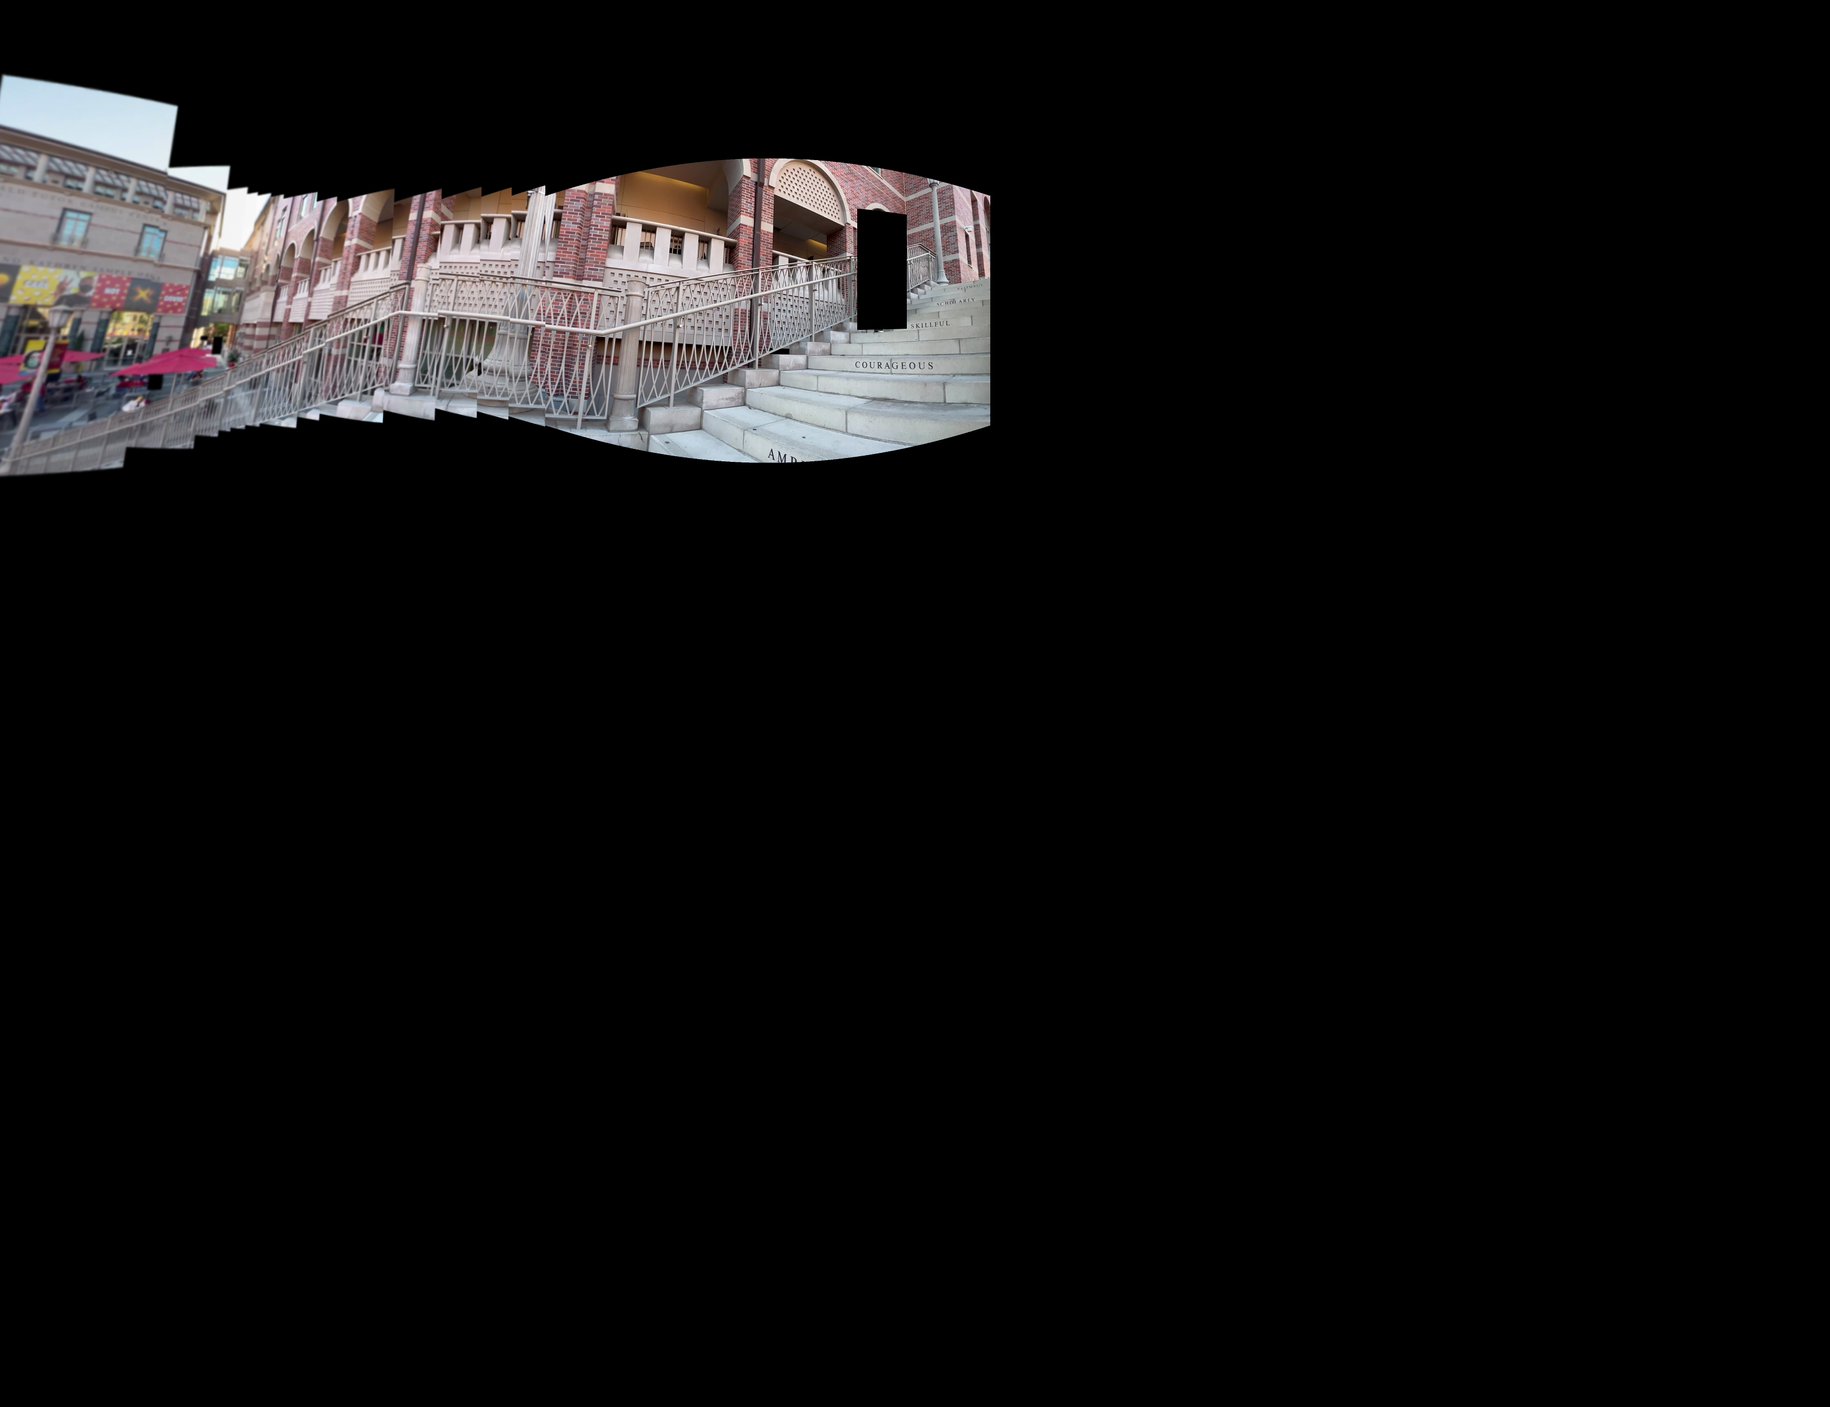
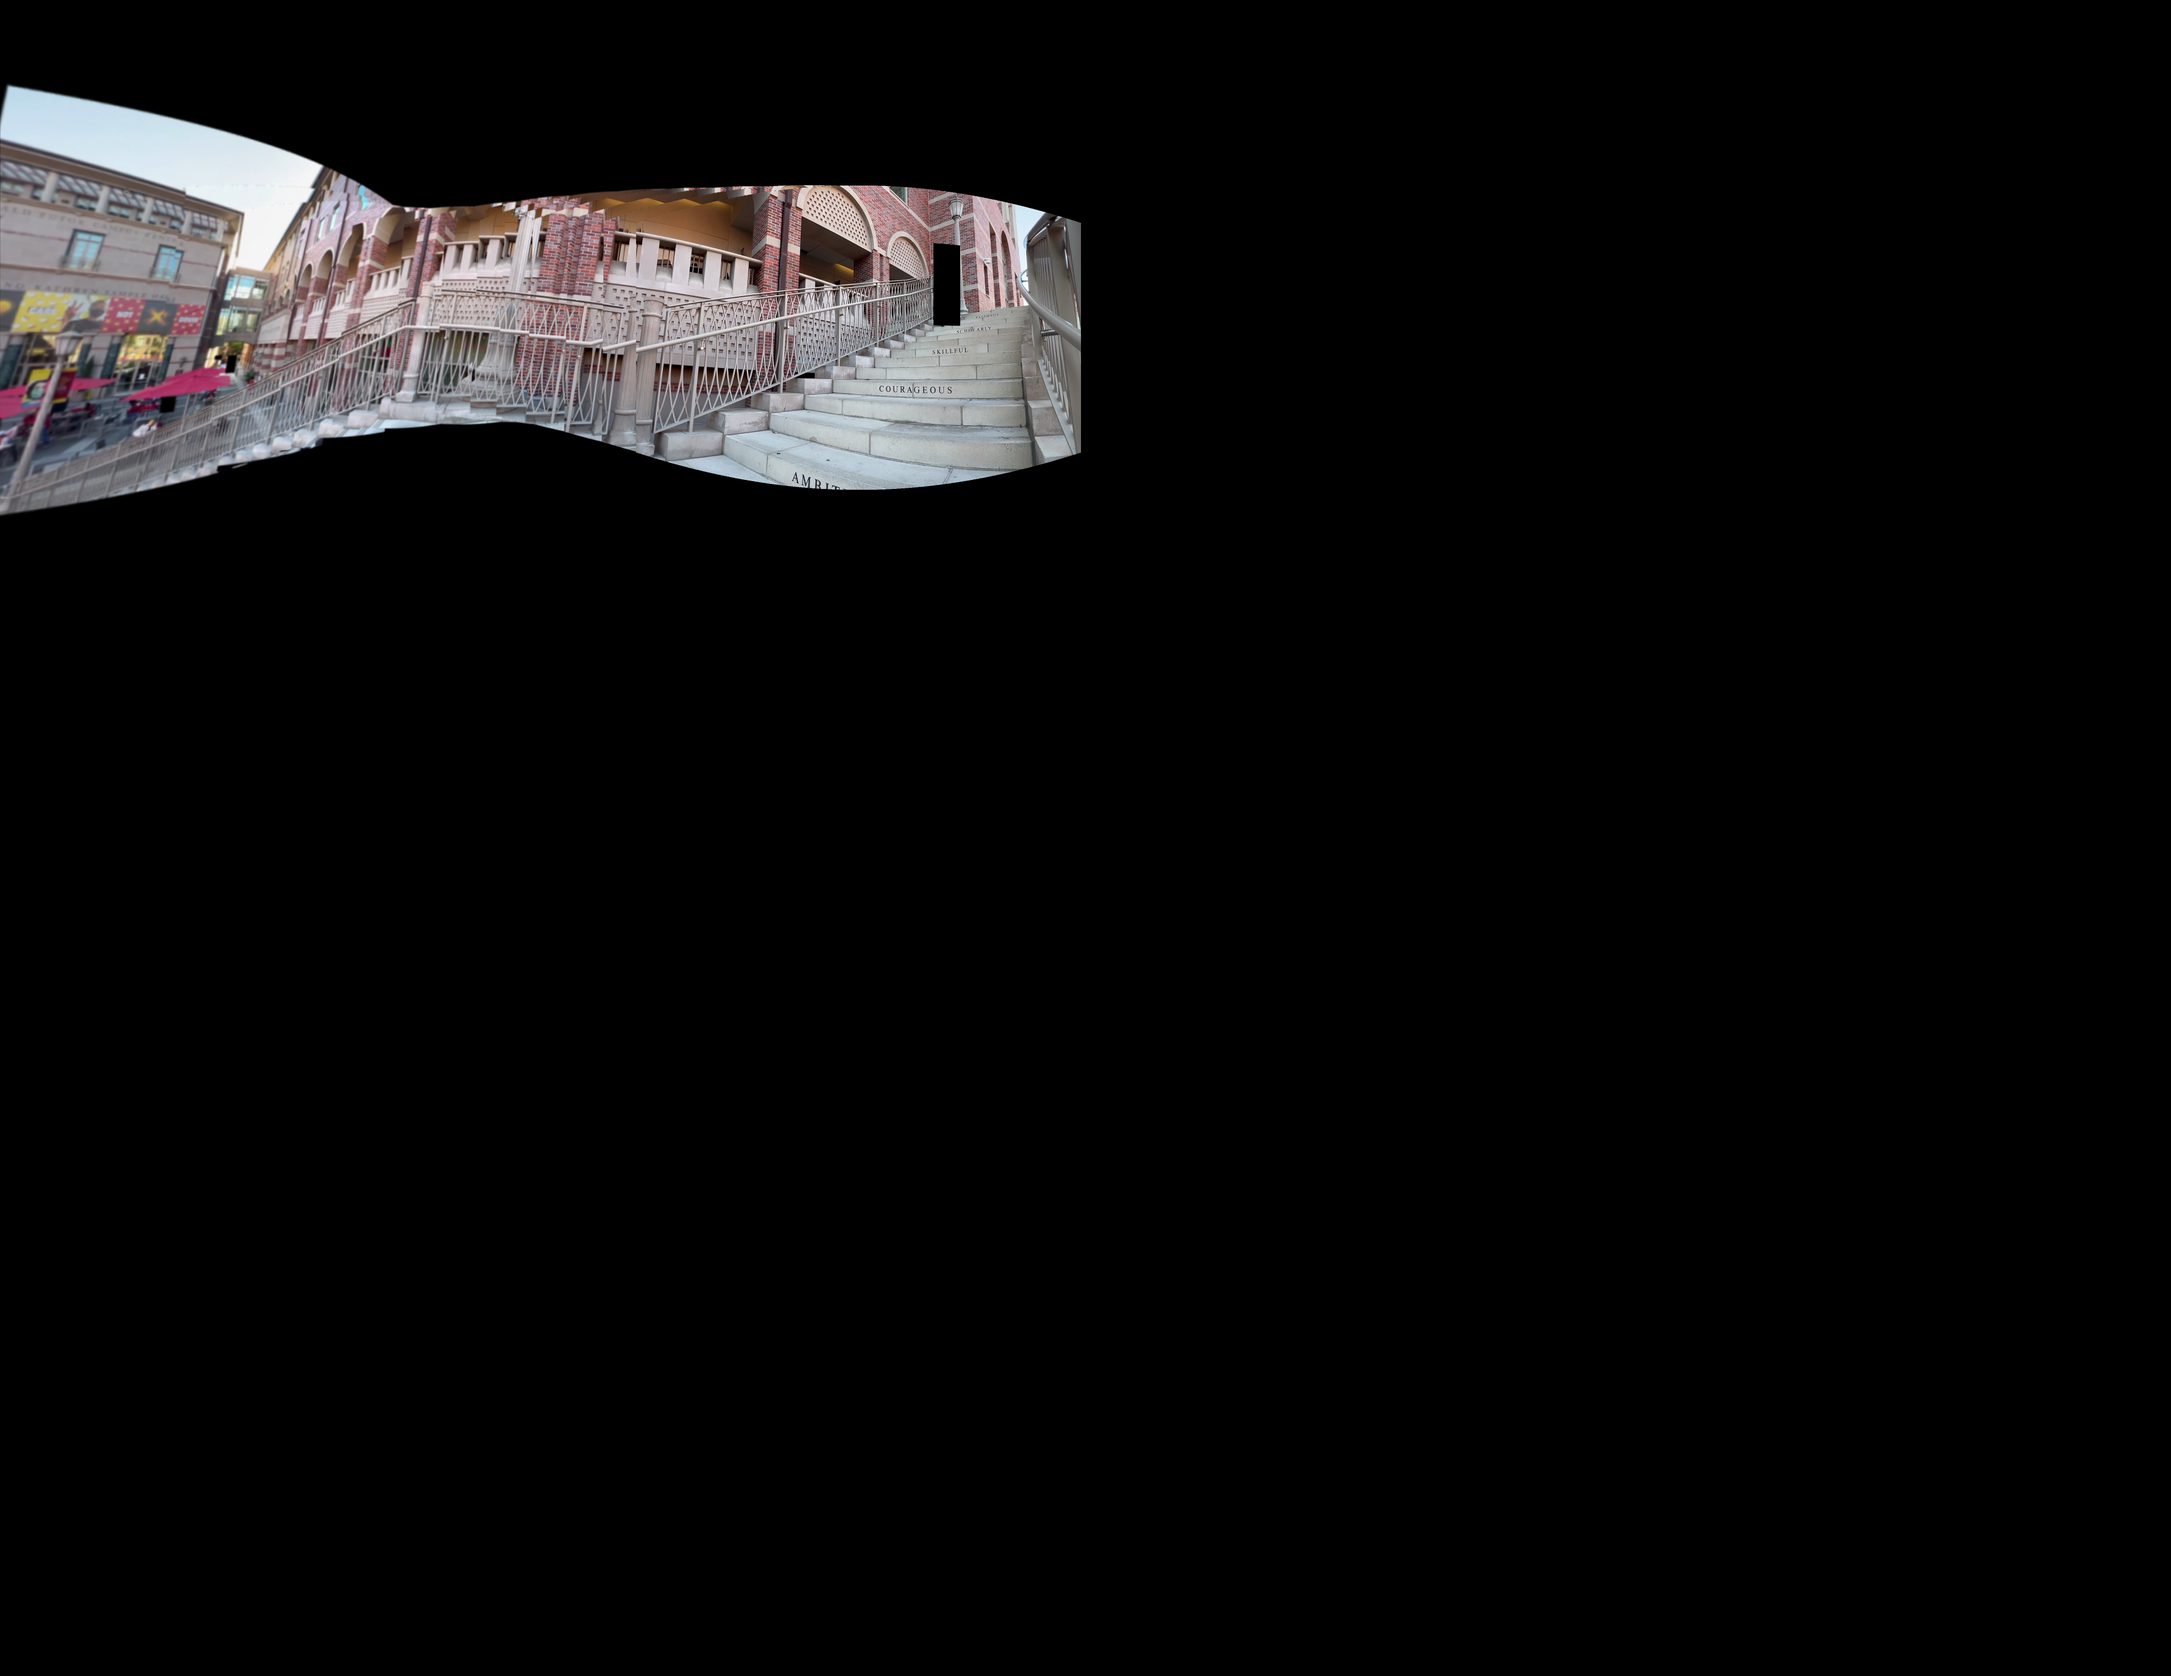
Panorama generate

Changed region(s): [[0.0, 0.0309, 0.5602, 0.3395]]

diff --git a/stitcher/panorama.py b/stitcher/panorama.py
@@ -27,6 +27,7 @@ class Stitcher:
             self.images[i] = Image_Cyl
             self.masks.append(Image_Mask)
             self.images[i] = cv2.resize(self.images[i],None,fx=0.5, fy=0.5, interpolation = cv2.INTER_CUBIC)
+            self.masks[i] = cv2.resize(self.masks[i],None,fx=0.5, fy=0.5, interpolation = cv2.INTER_CUBIC)
             if(i<=self.centerIdx):
                 self.left_list.append(self.images[i])
             else:
@@ -271,10 +272,10 @@ class Stitcher:
             print("image dsize =>", dsize)
             print("entering warpPerspective")
             tmp = cv2.warpPerspective(tmp, xh, dsize)
-            tmp[0:dsize[0], historyOffsetX:dsize[1]] = [0,0,0]
-            tmp[historyOffsetY:b.shape[0]+historyOffsetY, historyOffsetX:b.shape[1]+historyOffsetX] = b
-            #cylinder = tmp[historyOffsetY:b.shape[0]+historyOffsetY, historyOffsetX:b.shape[1]+historyOffsetX]
-            #tmp[historyOffsetY:b.shape[0]+historyOffsetY, historyOffsetX:b.shape[1]+historyOffsetX] = cv2.bitwise_or(b, cv2.bitwise_and(cylinder, cv2.bitwise_not(self.masks[i])))
+            #tmp[0:dsize[0], historyOffsetX:dsize[1]] = [0,0,0]
+            #tmp[historyOffsetY:b.shape[0]+historyOffsetY, historyOffsetX:b.shape[1]+historyOffsetX] = b
+            cylinder = tmp[historyOffsetY:b.shape[0]+historyOffsetY, historyOffsetX:b.shape[1]+historyOffsetX]
+            tmp[historyOffsetY:b.shape[0]+historyOffsetY, historyOffsetX:b.shape[1]+historyOffsetX] = cv2.bitwise_or(b, cv2.bitwise_and(cylinder, cv2.bitwise_not(self.masks[i])))
             print("done warpPerspective")
             #ixh = np.linalg.inv(xh)
             #max_length = b.shape[1]+offsetx
@@ -305,12 +306,14 @@ class Stitcher:
         
         result = cv2.warpPerspective(imageA, H,
         (imageA.shape[1] + imageB.shape[1], imageA.shape[0]))
+        #cv2.imshow("result", result)
+        #cv2.waitKey()
         #result[0:imageB.shape[0], 0:imageB.shape[1]] = imageB
         for i in range(imageB.shape[0]):
             for j in range(imageB.shape[1]):
                 if (imageB[i,j][0] != 0 and imageB[i,j][1] != 0 and imageB[i,j][2]) != 0:
                     result[i,j] = imageB[i,j]
-        
+        cv2.imwrite("imageB.jpg", result[0:imageB.shape[0],0:imageB.shape[1]])
         #result = cv2.warpPerspective(imageB, H,
         #(imageB.shape[1] + imageA.shape[1], imageB.shape[0]))
         #result[0:imageA.shape[0], 0:imageA.shape[1]] = imageA

diff --git a/stitcher/test.py b/stitcher/test.py
@@ -11,16 +11,15 @@ imageA = cv2.imread("images/frame_100.jpg")
 imageB = cv2.imread("images/frame_20.jpg")
 
 image_list = []
-
 image_list.append(cv2.imread("images/frame_345.jpg"))
 image_list.append(cv2.imread("images/frame_300.jpg"))
 image_list.append(cv2.imread("images/frame_275.jpg"))
-image_list.append(cv2.imread("images/frame_265.jpg"))
-image_list.append(cv2.imread("images/frame_260.jpg"))
-image_list.append(cv2.imread("images/frame_255.jpg"))
+#image_list.append(cv2.imread("images/frame_265.jpg"))
+#image_list.append(cv2.imread("images/frame_260.jpg"))
+#image_list.append(cv2.imread("images/frame_255.jpg"))
 
 image_list.append(cv2.imread("images/frame_250.jpg"))
-image_list.append(cv2.imread("images/frame_235.jpg"))
+#image_list.append(cv2.imread("images/frame_235.jpg"))
 image_list.append(cv2.imread("images/frame_225.jpg"))
 
 
@@ -30,9 +29,9 @@ image_list.append(cv2.imread("images/frame_150.jpg"))
 image_list.append(cv2.imread("images/frame_125.jpg"))
 image_list.append(cv2.imread("images/frame_100.jpg"))
 
-#image_list.append(cv2.imread("images/frame_75.jpg"))
-#image_list.append(cv2.imread("images/frame_50.jpg"))
-#image_list.append(cv2.imread("images/frame_20.jpg"))
+image_list.append(cv2.imread("images/frame_75.jpg"))
+image_list.append(cv2.imread("images/frame_50.jpg"))
+image_list.append(cv2.imread("images/frame_20.jpg"))
 ''''''
 '''
 image_list.append(cv2.imread("images/S1.jpg"))
@@ -81,4 +80,6 @@ stitcher.computeHmatrix()
 #cv2.imshow("Keypoint Matches", vis)
 #cv2.imshow("Result", stitcher.leftImage)
 #cv2.waitKey(0)
+#result = stitcher.stitch([imageA, imageB], showMatches=False)
 cv2.imwrite("Stitched_Panorama.png", stitcher.leftImage)
+#cv2.imwrite("result1.png", result)
